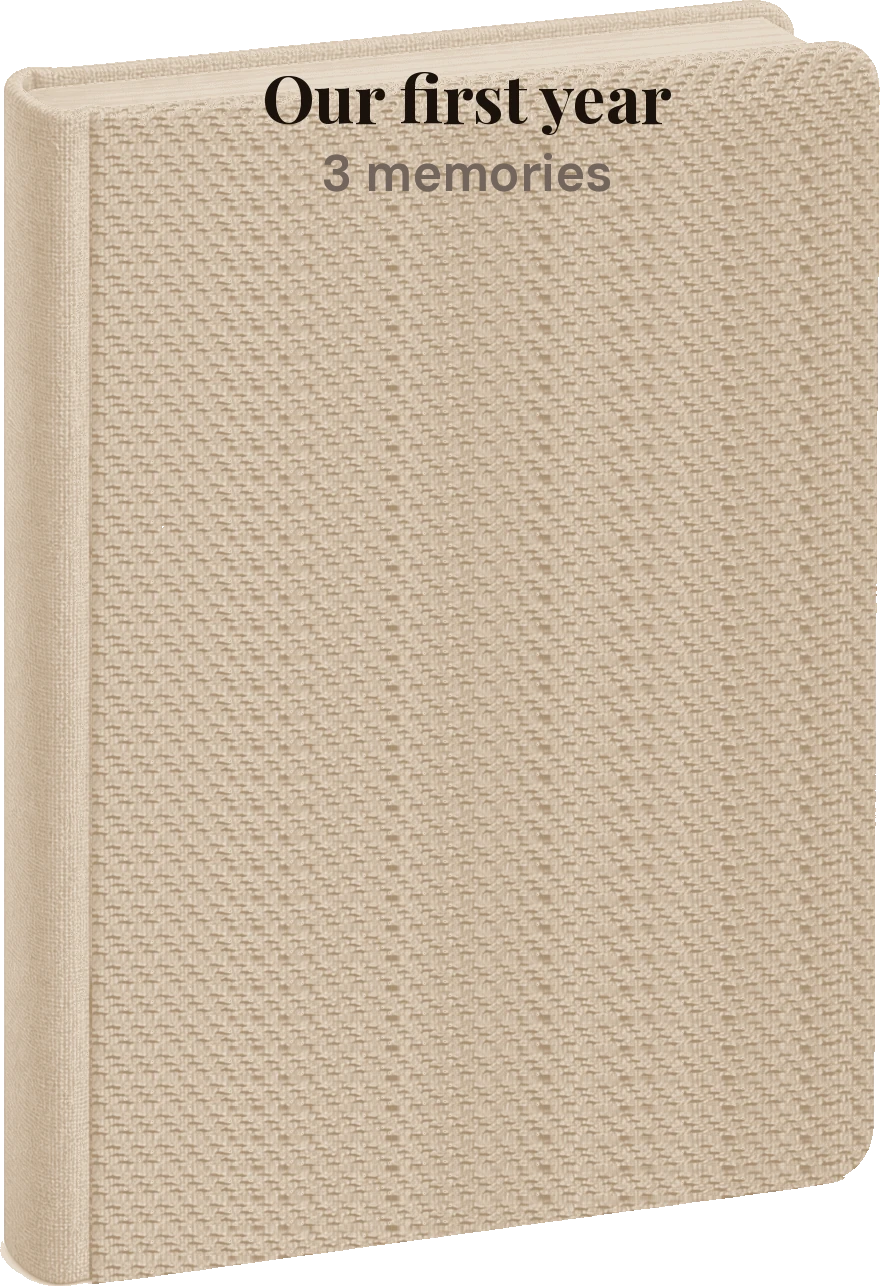
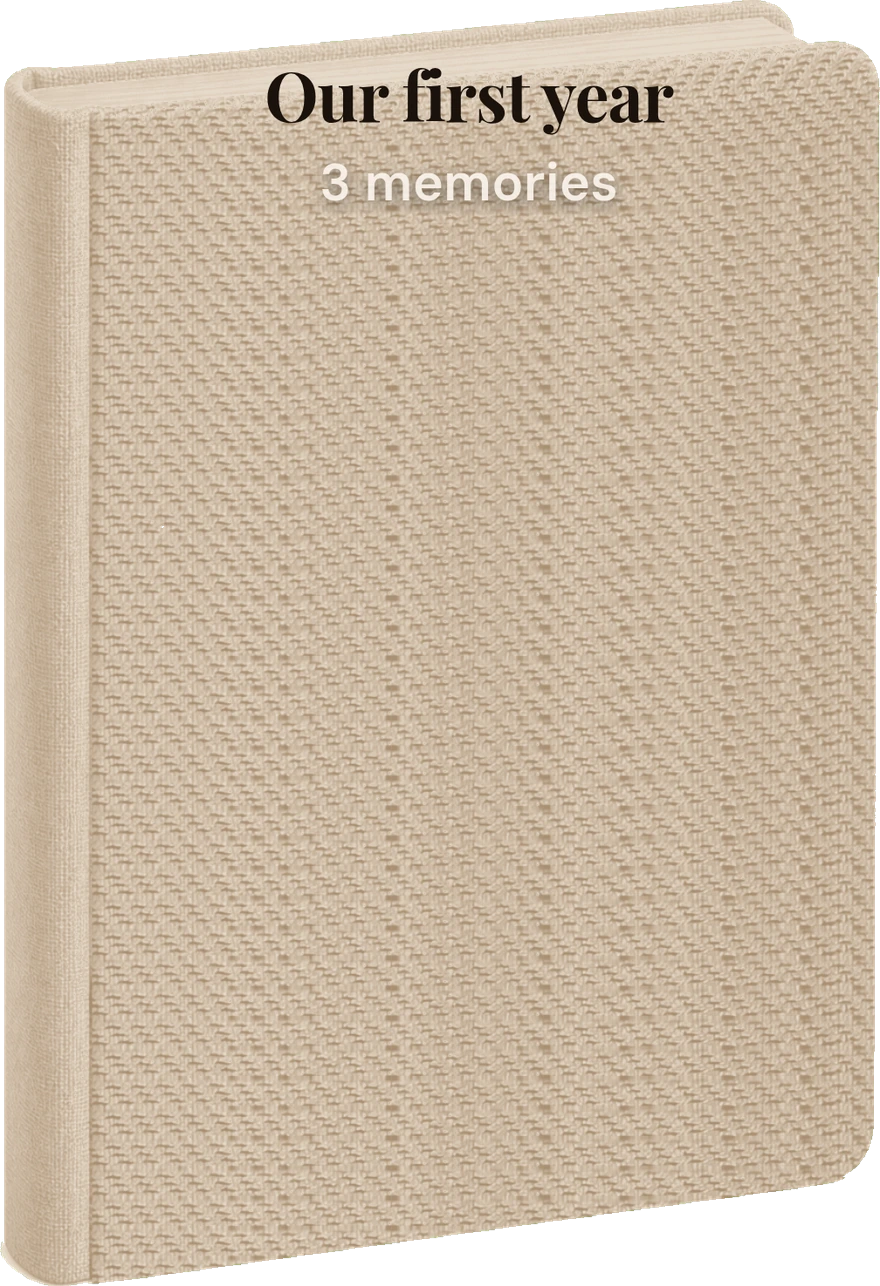
Match homepage Journal books to the app's photoreal hardcover covers (#9)
Replace the Journal phone book images with straight-on renders of
JournalCollectionBookCover from strongkin@eb2465f, and drop "linen"
from the Journal phone aria-label.

Changed region(s): [[0.3068, 0.0311, 0.767, 0.1866], [0.092, 0.9953, 0.1227, 1.0]]

diff --git a/index.html b/index.html
@@ -25,7 +25,7 @@
 <li><h3>Record your voice</h3><p>Leave a message, answer this week’s family moment, save an Open When message for later, or record a future message for a day still to come.</p></li>
 <li><h3>Listen and reply</h3><p>Your family hears your voice and can reply right back. Kids listen and reply in their own simple view.</p></li></ol></div></section>
 <section class="dark"><div class="wrap"><div class="center reveal"><p class="eyebrow">Inside the app</p><h2>Calm, warm, and simple</h2><p>A look at StrongKin, shown with sample data for a child named Maya.</p></div>
-<div class="phones reveal"><figure><div class="phone" role="img" aria-label="StrongKin Home screen: a full-screen photo of Maya, the headline “A message for Maya.” and a large gold mic button to leave a message"><div class="screen"><div class="app home"><img class="h-photo" src="assets/img/maya-home.webp" alt="" loading="lazy"><div class="h-scrim"></div><div class="sb light"><span>9:41</span><span class="isl"></span><span class="sbr"><i></i><i></i><i></i><i></i> <b class="batt"></b></span></div><div class="h-top"><div class="lock"><img src="assets/img/icon-180.png" alt=""><span><span class="strong">Strong</span><span class="kin">Kin</span></span></div><div class="h-right"><span class="bell"><svg class="ski" width="20" height="20" viewBox="0 0 24 24" fill="none" stroke="#FFF8F0" stroke-width="1.6" stroke-linecap="round" stroke-linejoin="round" aria-hidden="true"><path d="M6 16V11a6 6 0 0 1 12 0v5l1.5 2h-15L6 16Z"/><path d="M10 20a2 2 0 0 0 4 0"/></svg></span><span class="av"><img src="assets/img/avatar-parent.webp" alt="" loading="lazy"></span></div></div><div class="chip-wrap"><div class="chip"><span class="cav"><img src="assets/img/maya-home.webp" alt="" loading="lazy"></span>Maya • 9 <span class="caret">▼</span></div></div><div class="h-copy"><div class="greet">Good evening, Adrian</div><div class="hl">A message for Maya.</div><div class="hs">Your words today become her strength tomorrow.</div></div><div class="microw"><div class="ring"><div class="micb"><svg class="ski" width="32" height="32" viewBox="0 0 24 24" fill="none" stroke="#3D2B1F" stroke-width="1.8" stroke-linecap="round" stroke-linejoin="round" aria-hidden="true"><rect x="9" y="3" width="6" height="11" rx="3"/><path d="M6 11a6 6 0 0 0 12 0M12 17v4"/></svg></div></div></div><div class="leave">Leave a message</div><div class="choose">Choose people…</div><div class="cap"><div class="cap-in"><div class="ct on"><span class="cdot"><svg class="ski" width="25" height="25" viewBox="0 0 24 24" fill="none" stroke="currentColor" stroke-width="1.7" stroke-linecap="round" stroke-linejoin="round" aria-hidden="true"><path d="M4 10.5 12 4l8 6.5V20a1 1 0 0 1-1 1h-5v-6H10v6H5a1 1 0 0 1-1-1v-9.5Z"/></svg></span></div><div class="ct"><span class="cdot"><svg class="ski" width="25" height="25" viewBox="0 0 24 24" fill="none" stroke="currentColor" stroke-width="1.7" stroke-linecap="round" stroke-linejoin="round" aria-hidden="true"><rect x="9" y="3.5" width="6" height="11" rx="3"/><path d="M7 11a5 5 0 0 0 10 0M12 16v4"/></svg></span></div><div class="ct"><span class="cdot"><svg class="ski" width="25" height="25" viewBox="0 0 24 24" fill="none" stroke="currentColor" stroke-width="1.7" stroke-linecap="round" stroke-linejoin="round" aria-hidden="true"><circle cx="9" cy="8" r="2.5"/><circle cx="16" cy="9" r="2"/><path d="M4 19c0-2.8 2.2-4.5 5-4.5s5 1.7 5 4.5M14 19c0-2 1.5-3.5 3.5-3.5"/></svg></span></div><div class="ct"><span class="cdot"><svg class="ski" width="25" height="25" viewBox="0 0 24 24" fill="none" stroke="currentColor" stroke-width="1.7" stroke-linecap="round" stroke-linejoin="round" aria-hidden="true"><rect x="5" y="3" width="14" height="18" rx="2"/><path d="M9 3v18"/></svg></span></div></div></div></div></div></div><figcaption>Home</figcaption></figure><figure><div class="phone" role="img" aria-label="StrongKin Messages screen: Maya name chip, bell and profile photo scroll with the inbox, a small gold mic above the tab bar to record, All, Received and Sent filters, a full-row inbox, and Your collections for Family Stories, Open When, and Future"><div class="screen"><div class="app msg"><div class="sb"><span>9:41</span><span class="isl"></span><span class="sbr"><i></i><i></i><i></i><i></i> <b class="batt"></b></span></div><div class="pg-clip"><div class="pg msg-pg"><div class="msg-head"><div class="maya-chip"><span class="cav"><img src="assets/img/maya-home.webp" alt="" loading="lazy"></span>Maya <span class="caret">▼</span></div><div class="h-right"><span class="bell on-page"><svg class="ski" width="20" height="20" viewBox="0 0 24 24" fill="none" stroke="#FFF8F0" stroke-width="1.6" stroke-linecap="round" stroke-linejoin="round" aria-hidden="true"><path d="M6 16V11a6 6 0 0 1 12 0v5l1.5 2h-15L6 16Z"/><path d="M10 20a2 2 0 0 0 4 0"/></svg></span><span class="av"><img src="assets/img/avatar-parent.webp" alt="" loading="lazy"></span></div></div><div class="msg-title-row"><div class="pageTitle">Messages</div></div><div class="flt"><span class="on">All<i></i></span><span>Received<i></i></span><span>Sent<i></i></span></div><div class="inbox"><div class="irow"><span class="iface"><img src="assets/img/maya-home.webp" alt="" loading="lazy"></span><div class="icopy"><b class="iname">Maya</b><b class="ititle">Before the big game</b><span>To Maya · 0:42 · Ready</span></div><span class="pb"><svg class="ski" width="16" height="16" viewBox="0 0 24 24" fill="none" stroke="#3D2B1F" stroke-width="1.6" stroke-linecap="round" stroke-linejoin="round" aria-hidden="true"><path d="M8 5v14l11-7L8 5Z" fill="currentColor" stroke="none"/></svg></span><span class="kebab">⋯</span></div><div class="irow"><span class="iface"><img src="assets/img/maya-home.webp" alt="" loading="lazy"></span><div class="icopy"><b class="iname">Maya</b><b class="ititle">Happy birthday, Maya</b><span>Opens Mar 14 · Locked</span></div><span class="pb lock"><svg class="ski" width="18" height="18" viewBox="0 0 24 24" fill="none" stroke="#1A120C" stroke-width="1.8" stroke-linecap="round" aria-hidden="true"><rect x="5" y="11" width="14" height="10" rx="2"/><path d="M8 11V8a4 4 0 0 1 8 0v3"/></svg></span><span class="kebab">⋯</span></div><div class="irow"><span class="iface"><img src="assets/img/avatar-parent.webp" alt="" loading="lazy"></span><div class="icopy"><b class="iname">You</b><b class="ititle">Goodnight, I love you</b><span>To Maya · 0:42 · Heard</span></div><span class="pb"><svg class="ski" width="16" height="16" viewBox="0 0 24 24" fill="none" stroke="#3D2B1F" stroke-width="1.6" stroke-linecap="round" stroke-linejoin="round" aria-hidden="true"><path d="M8 5v14l11-7L8 5Z" fill="currentColor" stroke="none"/></svg></span><span class="kebab">⋯</span></div><div class="irow"><span class="iface"><img src="assets/img/wfm-laugh.webp" alt="" loading="lazy"></span><div class="icopy"><b class="iname">Grandma Rose</b><b class="ititle">How Grandpa met Grandma</b><span>To the family · 3:05 · Mon</span></div><span class="pb"><svg class="ski" width="16" height="16" viewBox="0 0 24 24" fill="none" stroke="#3D2B1F" stroke-width="1.6" stroke-linecap="round" stroke-linejoin="round" aria-hidden="true"><path d="M8 5v14l11-7L8 5Z" fill="currentColor" stroke="none"/></svg></span><span class="kebab">⋯</span></div><div class="irow"><span class="iface"><img src="assets/img/maya-home.webp" alt="" loading="lazy"></span><div class="icopy"><b class="iname">Maya</b><b class="ititle">First time on two wheels</b><span>To Maya · 1:50 · Oct 28</span></div><span class="pb"><svg class="ski" width="16" height="16" viewBox="0 0 24 24" fill="none" stroke="#3D2B1F" stroke-width="1.6" stroke-linecap="round" stroke-linejoin="round" aria-hidden="true"><path d="M8 5v14l11-7L8 5Z" fill="currentColor" stroke="none"/></svg></span><span class="kebab">⋯</span></div></div><div class="seeall">See all messages ›</div><div class="sh2"><span class="s2">Your collections</span><span class="lk2">See all ›</span></div><div class="cgrid"><div class="ctile"><img src="assets/img/entry-story.webp" alt="" loading="lazy"><div class="rt-g"></div><b>Family Stories</b></div><div class="ctile"><img src="assets/img/col-open-when.webp" alt="" loading="lazy"><div class="rt-g"></div><b>Open When</b></div><div class="ctile"><img src="assets/img/col-future.webp" alt="" loading="lazy"><div class="rt-g"></div><b>Future</b></div></div></div></div><div class="msg-fab" aria-hidden="true"><svg aria-hidden="true" class="ski" fill="none" height="20" stroke="#3D2B1F" stroke-linecap="round" stroke-linejoin="round" stroke-width="1.8" viewBox="0 0 24 24" width="20"><rect height="11" rx="3" width="6" x="9" y="3"></rect><path d="M6 11a6 6 0 0 0 12 0M12 17v4"></path></svg></div><div class="cap"><div class="cap-in"><div class="ct"><span class="cdot"><svg class="ski" width="25" height="25" viewBox="0 0 24 24" fill="none" stroke="currentColor" stroke-width="1.7" stroke-linecap="round" stroke-linejoin="round" aria-hidden="true"><path d="M4 10.5 12 4l8 6.5V20a1 1 0 0 1-1 1h-5v-6H10v6H5a1 1 0 0 1-1-1v-9.5Z"/></svg></span></div><div class="ct on"><span class="cdot"><svg class="ski" width="25" height="25" viewBox="0 0 24 24" fill="none" stroke="currentColor" stroke-width="1.7" stroke-linecap="round" stroke-linejoin="round" aria-hidden="true"><rect x="9" y="3.5" width="6" height="11" rx="3"/><path d="M7 11a5 5 0 0 0 10 0M12 16v4"/></svg></span></div><div class="ct"><span class="cdot"><svg class="ski" width="25" height="25" viewBox="0 0 24 24" fill="none" stroke="currentColor" stroke-width="1.7" stroke-linecap="round" stroke-linejoin="round" aria-hidden="true"><circle cx="9" cy="8" r="2.5"/><circle cx="16" cy="9" r="2"/><path d="M4 19c0-2.8 2.2-4.5 5-4.5s5 1.7 5 4.5M14 19c0-2 1.5-3.5 3.5-3.5"/></svg></span></div><div class="ct"><span class="cdot"><svg class="ski" width="25" height="25" viewBox="0 0 24 24" fill="none" stroke="currentColor" stroke-width="1.7" stroke-linecap="round" stroke-linejoin="round" aria-hidden="true"><rect x="5" y="3" width="14" height="18" rx="2"/><path d="M9 3v18"/></svg></span></div></div></div></div></div></div><figcaption>Messages</figcaption></figure><figure><div class="phone" role="img" aria-label="StrongKin Family screen: “Family — A little closer, every day.”, this week’s moment Dinner Thanks, Maya’s birthday coming up, the Stories and Albums collection, and the bell and profile photo in the header"><div class="screen"><div class="app fam"><div class="sb"><span>9:41</span><span class="isl"></span><span class="sbr"><i></i><i></i><i></i><i></i> <b class="batt"></b></span></div><div class="pg-clip"><div class="pg"><div class="fh"><div><div class="ft">Family</div><div class="fs">A little closer, every day.</div></div><div class="h-right"><span class="bell on-page"><svg class="ski" width="20" height="20" viewBox="0 0 24 24" fill="none" stroke="#FFF8F0" stroke-width="1.6" stroke-linecap="round" stroke-linejoin="round" aria-hidden="true"><path d="M6 16V11a6 6 0 0 1 12 0v5l1.5 2h-15L6 16Z"/><path d="M10 20a2 2 0 0 0 4 0"/></svg></span><span class="av"><img src="assets/img/avatar-parent.webp" alt="" loading="lazy"></span></div></div><div class="card mom"><div class="mh"><img src="assets/img/wfm-dinner2.webp" alt="" loading="lazy"></div><div class="mb"><div class="mchip-inline">THIS WEEK’S MOMENT</div><div class="mtt">Dinner Thanks</div><div class="mp">At dinner, each person says one specific thing they appreciate about someone else.</div><div class="cap-btn"><svg class="ski" width="18" height="18" viewBox="0 0 24 24" fill="none" stroke="currentColor" stroke-width="1.7" stroke-linecap="round" stroke-linejoin="round" aria-hidden="true"><rect x="9" y="3" width="6" height="11" rx="3"/><path d="M6 11a6 6 0 0 0 12 0M12 17v4"/></svg> Capture your moment</div></div></div><div class="sec"><div class="sh2"><span class="s2">Coming up</span><span class="lk2">All dates ›</span></div><div class="card ev"><span class="evf"><img src="assets/img/maya-home.webp" alt="" loading="lazy"></span><div class="evc"><b>Maya’s birthday</b><span>In 12 days</span></div><span class="lv"><svg class="ski" width="18" height="18" viewBox="0 0 24 24" fill="none" stroke="currentColor" stroke-width="1.7" stroke-linecap="round" stroke-linejoin="round" aria-hidden="true"><rect x="9" y="3" width="6" height="11" rx="3"/><path d="M6 11a6 6 0 0 0 12 0M12 17v4"/></svg> Record</span></div></div><div class="sec"><div class="s2">Your family collection</div><div class="tiles"><div class="tl"><div class="tp card"><img src="assets/img/fam-tile-stories.webp" alt="" loading="lazy"><div class="tf"></div><div class="tx"><b>Stories</b><span>Voices worth keeping</span></div></div><div class="tc"><span class="tc-lead">Latest</span><span class="tc-title">How they met</span></div></div><div class="tl"><div class="tp card"><img src="assets/img/fam-tile-albums.webp" alt="" loading="lazy"><div class="tf"></div><div class="tx"><b>Albums</b><span>Your family in pictures</span></div></div><div class="tc"><span class="tc-lead">Latest</span><span class="tc-title">Sunday dinners</span></div></div></div></div></div></div><div class="cap"><div class="cap-in"><div class="ct"><span class="cdot"><svg class="ski" width="25" height="25" viewBox="0 0 24 24" fill="none" stroke="currentColor" stroke-width="1.7" stroke-linecap="round" stroke-linejoin="round" aria-hidden="true"><path d="M4 10.5 12 4l8 6.5V20a1 1 0 0 1-1 1h-5v-6H10v6H5a1 1 0 0 1-1-1v-9.5Z"/></svg></span></div><div class="ct"><span class="cdot"><svg class="ski" width="25" height="25" viewBox="0 0 24 24" fill="none" stroke="currentColor" stroke-width="1.7" stroke-linecap="round" stroke-linejoin="round" aria-hidden="true"><rect x="9" y="3.5" width="6" height="11" rx="3"/><path d="M7 11a5 5 0 0 0 10 0M12 16v4"/></svg></span></div><div class="ct on"><span class="cdot"><svg class="ski" width="25" height="25" viewBox="0 0 24 24" fill="none" stroke="currentColor" stroke-width="1.7" stroke-linecap="round" stroke-linejoin="round" aria-hidden="true"><circle cx="9" cy="8" r="2.5"/><circle cx="16" cy="9" r="2"/><path d="M4 19c0-2.8 2.2-4.5 5-4.5s5 1.7 5 4.5M14 19c0-2 1.5-3.5 3.5-3.5"/></svg></span></div><div class="ct"><span class="cdot"><svg class="ski" width="25" height="25" viewBox="0 0 24 24" fill="none" stroke="currentColor" stroke-width="1.7" stroke-linecap="round" stroke-linejoin="round" aria-hidden="true"><rect x="5" y="3" width="14" height="18" rx="2"/><path d="M9 3v18"/></svg></span></div></div></div></div></div></div><figcaption>Family</figcaption></figure><figure><div class="phone" role="img" aria-label="StrongKin Journal screen: “Keep a little of today.” with Speak a memory, Write and Add photo, a recent memory, linen hardcover memory books for Maya and Our first year, Letters with one from Grandma Rose, and the bell and profile photo in the header"><div class="screen"><div class="app jrn"><div class="sb"><span>9:41</span><span class="isl"></span><span class="sbr"><i></i><i></i><i></i><i></i> <b class="batt"></b></span></div><div class="pg-clip"><div class="pg j"><div class="fh"><div class="ft">Journal</div><div class="h-right"><span class="bell on-page"><svg class="ski" width="20" height="20" viewBox="0 0 24 24" fill="none" stroke="#FFF8F0" stroke-width="1.6" stroke-linecap="round" stroke-linejoin="round" aria-hidden="true"><path d="M6 16V11a6 6 0 0 1 12 0v5l1.5 2h-15L6 16Z"/><path d="M10 20a2 2 0 0 0 4 0"/></svg></span><span class="av"><img src="assets/img/avatar-parent.webp" alt="" loading="lazy"></span></div></div><div class="capture-block"><div class="dateLine">Tuesday, November 10</div><div class="ctt">Keep a little of today.</div><div class="spk"><svg class="ski" width="18" height="18" viewBox="0 0 24 24" fill="none" stroke="currentColor" stroke-width="1.7" stroke-linecap="round" stroke-linejoin="round" aria-hidden="true"><rect x="9" y="3" width="6" height="11" rx="3"/><path d="M6 11a6 6 0 0 0 12 0M12 17v4"/></svg> Speak a memory</div><div class="sec2"><span><svg class="ski" width="16" height="16" viewBox="0 0 24 24" fill="none" stroke="#1A120C" stroke-width="1.7" stroke-linecap="round" stroke-linejoin="round" aria-hidden="true"><path d="M4 20h4L19 9l-4-4L4 16v4Z"/></svg> Write</span><span><svg class="ski" width="16" height="16" viewBox="0 0 24 24" fill="none" stroke="#1A120C" stroke-width="1.7" stroke-linecap="round" stroke-linejoin="round" aria-hidden="true"><path d="M4 8h3l2-3h6l2 3h3v11H4V8Z"/><circle cx="12" cy="13" r="3.5"/></svg> Add photo</span></div></div><div class="sec"><div class="sh2"><span class="s3">Recent memories</span><span class="lk2 see">See all<svg aria-hidden="true" class="ski chev" fill="none" height="14" stroke="currentColor" stroke-linecap="round" stroke-width="1.8" viewBox="0 0 24 24" width="14"><path d="m9 6 6 6-6 6"></path></svg></span></div><div class="card mrow"><img class="th" src="assets/img/entry-moment.webp" alt="" loading="lazy"><div class="evc"><b>Her first bike ride without me</b><span>Maya · Today · Voice · 0:38</span></div><span class="pb"><svg class="ski" width="16" height="16" viewBox="0 0 24 24" fill="none" stroke="#3D2B1F" stroke-width="1.6" stroke-linecap="round" stroke-linejoin="round" aria-hidden="true"><path d="M8 5v14l11-7L8 5Z" fill="currentColor" stroke="none"/></svg></span></div><div class="ideas">More ideas ›</div></div><div class="sec"><div class="sh2"><span class="s3">Your memory books</span><span class="lk2 see">See all<svg aria-hidden="true" class="ski chev" fill="none" height="14" stroke="currentColor" stroke-linecap="round" stroke-width="1.8" viewBox="0 0 24 24" width="14"><path d="m9 6 6 6-6 6"></path></svg></span></div><div class="book-shelf"><img class="book-cover" src="assets/img/journal-book-maya.webp" alt="" loading="lazy"><img class="book-cover" src="assets/img/journal-book-first-year.webp" alt="" loading="lazy"></div><div class="create-book">+ Create a book</div></div><div class="sec"><div class="sh2"><span class="s3">Letters</span><span class="lk2 see">See all<svg aria-hidden="true" class="ski chev" fill="none" height="14" stroke="currentColor" stroke-linecap="round" stroke-width="1.8" viewBox="0 0 24 24" width="14"><path d="m9 6 6 6-6 6"></path></svg></span></div><div class="letter-row"><img class="envelope" src="assets/img/journal-letter-envelope.webp" alt="" loading="lazy"><div class="evc"><b>From Grandma Rose</b><span>A letter for your birthday · Yesterday</span></div><svg class="ski" width="16" height="16" viewBox="0 0 24 24" fill="none" stroke="#6B4E32" stroke-width="1.8" stroke-linecap="round" aria-hidden="true"><path d="m9 6 6 6-6 6"/></svg></div><div class="create-book">+ Write a letter</div></div></div></div><div class="cap"><div class="cap-in"><div class="ct"><span class="cdot"><svg class="ski" width="25" height="25" viewBox="0 0 24 24" fill="none" stroke="currentColor" stroke-width="1.7" stroke-linecap="round" stroke-linejoin="round" aria-hidden="true"><path d="M4 10.5 12 4l8 6.5V20a1 1 0 0 1-1 1h-5v-6H10v6H5a1 1 0 0 1-1-1v-9.5Z"/></svg></span></div><div class="ct"><span class="cdot"><svg class="ski" width="25" height="25" viewBox="0 0 24 24" fill="none" stroke="currentColor" stroke-width="1.7" stroke-linecap="round" stroke-linejoin="round" aria-hidden="true"><rect x="9" y="3.5" width="6" height="11" rx="3"/><path d="M7 11a5 5 0 0 0 10 0M12 16v4"/></svg></span></div><div class="ct"><span class="cdot"><svg class="ski" width="25" height="25" viewBox="0 0 24 24" fill="none" stroke="currentColor" stroke-width="1.7" stroke-linecap="round" stroke-linejoin="round" aria-hidden="true"><circle cx="9" cy="8" r="2.5"/><circle cx="16" cy="9" r="2"/><path d="M4 19c0-2.8 2.2-4.5 5-4.5s5 1.7 5 4.5M14 19c0-2 1.5-3.5 3.5-3.5"/></svg></span></div><div class="ct on"><span class="cdot"><svg class="ski" width="25" height="25" viewBox="0 0 24 24" fill="none" stroke="currentColor" stroke-width="1.7" stroke-linecap="round" stroke-linejoin="round" aria-hidden="true"><rect x="5" y="3" width="14" height="18" rx="2"/><path d="M9 3v18"/></svg></span></div></div></div></div></div></div><figcaption>Journal</figcaption></figure></div></div></section>
+<div class="phones reveal"><figure><div class="phone" role="img" aria-label="StrongKin Home screen: a full-screen photo of Maya, the headline “A message for Maya.” and a large gold mic button to leave a message"><div class="screen"><div class="app home"><img class="h-photo" src="assets/img/maya-home.webp" alt="" loading="lazy"><div class="h-scrim"></div><div class="sb light"><span>9:41</span><span class="isl"></span><span class="sbr"><i></i><i></i><i></i><i></i> <b class="batt"></b></span></div><div class="h-top"><div class="lock"><img src="assets/img/icon-180.png" alt=""><span><span class="strong">Strong</span><span class="kin">Kin</span></span></div><div class="h-right"><span class="bell"><svg class="ski" width="20" height="20" viewBox="0 0 24 24" fill="none" stroke="#FFF8F0" stroke-width="1.6" stroke-linecap="round" stroke-linejoin="round" aria-hidden="true"><path d="M6 16V11a6 6 0 0 1 12 0v5l1.5 2h-15L6 16Z"/><path d="M10 20a2 2 0 0 0 4 0"/></svg></span><span class="av"><img src="assets/img/avatar-parent.webp" alt="" loading="lazy"></span></div></div><div class="chip-wrap"><div class="chip"><span class="cav"><img src="assets/img/maya-home.webp" alt="" loading="lazy"></span>Maya • 9 <span class="caret">▼</span></div></div><div class="h-copy"><div class="greet">Good evening, Adrian</div><div class="hl">A message for Maya.</div><div class="hs">Your words today become her strength tomorrow.</div></div><div class="microw"><div class="ring"><div class="micb"><svg class="ski" width="32" height="32" viewBox="0 0 24 24" fill="none" stroke="#3D2B1F" stroke-width="1.8" stroke-linecap="round" stroke-linejoin="round" aria-hidden="true"><rect x="9" y="3" width="6" height="11" rx="3"/><path d="M6 11a6 6 0 0 0 12 0M12 17v4"/></svg></div></div></div><div class="leave">Leave a message</div><div class="choose">Choose people…</div><div class="cap"><div class="cap-in"><div class="ct on"><span class="cdot"><svg class="ski" width="25" height="25" viewBox="0 0 24 24" fill="none" stroke="currentColor" stroke-width="1.7" stroke-linecap="round" stroke-linejoin="round" aria-hidden="true"><path d="M4 10.5 12 4l8 6.5V20a1 1 0 0 1-1 1h-5v-6H10v6H5a1 1 0 0 1-1-1v-9.5Z"/></svg></span></div><div class="ct"><span class="cdot"><svg class="ski" width="25" height="25" viewBox="0 0 24 24" fill="none" stroke="currentColor" stroke-width="1.7" stroke-linecap="round" stroke-linejoin="round" aria-hidden="true"><rect x="9" y="3.5" width="6" height="11" rx="3"/><path d="M7 11a5 5 0 0 0 10 0M12 16v4"/></svg></span></div><div class="ct"><span class="cdot"><svg class="ski" width="25" height="25" viewBox="0 0 24 24" fill="none" stroke="currentColor" stroke-width="1.7" stroke-linecap="round" stroke-linejoin="round" aria-hidden="true"><circle cx="9" cy="8" r="2.5"/><circle cx="16" cy="9" r="2"/><path d="M4 19c0-2.8 2.2-4.5 5-4.5s5 1.7 5 4.5M14 19c0-2 1.5-3.5 3.5-3.5"/></svg></span></div><div class="ct"><span class="cdot"><svg class="ski" width="25" height="25" viewBox="0 0 24 24" fill="none" stroke="currentColor" stroke-width="1.7" stroke-linecap="round" stroke-linejoin="round" aria-hidden="true"><rect x="5" y="3" width="14" height="18" rx="2"/><path d="M9 3v18"/></svg></span></div></div></div></div></div></div><figcaption>Home</figcaption></figure><figure><div class="phone" role="img" aria-label="StrongKin Messages screen: Maya name chip, bell and profile photo scroll with the inbox, a small gold mic above the tab bar to record, All, Received and Sent filters, a full-row inbox, and Your collections for Family Stories, Open When, and Future"><div class="screen"><div class="app msg"><div class="sb"><span>9:41</span><span class="isl"></span><span class="sbr"><i></i><i></i><i></i><i></i> <b class="batt"></b></span></div><div class="pg-clip"><div class="pg msg-pg"><div class="msg-head"><div class="maya-chip"><span class="cav"><img src="assets/img/maya-home.webp" alt="" loading="lazy"></span>Maya <span class="caret">▼</span></div><div class="h-right"><span class="bell on-page"><svg class="ski" width="20" height="20" viewBox="0 0 24 24" fill="none" stroke="#FFF8F0" stroke-width="1.6" stroke-linecap="round" stroke-linejoin="round" aria-hidden="true"><path d="M6 16V11a6 6 0 0 1 12 0v5l1.5 2h-15L6 16Z"/><path d="M10 20a2 2 0 0 0 4 0"/></svg></span><span class="av"><img src="assets/img/avatar-parent.webp" alt="" loading="lazy"></span></div></div><div class="msg-title-row"><div class="pageTitle">Messages</div></div><div class="flt"><span class="on">All<i></i></span><span>Received<i></i></span><span>Sent<i></i></span></div><div class="inbox"><div class="irow"><span class="iface"><img src="assets/img/maya-home.webp" alt="" loading="lazy"></span><div class="icopy"><b class="iname">Maya</b><b class="ititle">Before the big game</b><span>To Maya · 0:42 · Ready</span></div><span class="pb"><svg class="ski" width="16" height="16" viewBox="0 0 24 24" fill="none" stroke="#3D2B1F" stroke-width="1.6" stroke-linecap="round" stroke-linejoin="round" aria-hidden="true"><path d="M8 5v14l11-7L8 5Z" fill="currentColor" stroke="none"/></svg></span><span class="kebab">⋯</span></div><div class="irow"><span class="iface"><img src="assets/img/maya-home.webp" alt="" loading="lazy"></span><div class="icopy"><b class="iname">Maya</b><b class="ititle">Happy birthday, Maya</b><span>Opens Mar 14 · Locked</span></div><span class="pb lock"><svg class="ski" width="18" height="18" viewBox="0 0 24 24" fill="none" stroke="#1A120C" stroke-width="1.8" stroke-linecap="round" aria-hidden="true"><rect x="5" y="11" width="14" height="10" rx="2"/><path d="M8 11V8a4 4 0 0 1 8 0v3"/></svg></span><span class="kebab">⋯</span></div><div class="irow"><span class="iface"><img src="assets/img/avatar-parent.webp" alt="" loading="lazy"></span><div class="icopy"><b class="iname">You</b><b class="ititle">Goodnight, I love you</b><span>To Maya · 0:42 · Heard</span></div><span class="pb"><svg class="ski" width="16" height="16" viewBox="0 0 24 24" fill="none" stroke="#3D2B1F" stroke-width="1.6" stroke-linecap="round" stroke-linejoin="round" aria-hidden="true"><path d="M8 5v14l11-7L8 5Z" fill="currentColor" stroke="none"/></svg></span><span class="kebab">⋯</span></div><div class="irow"><span class="iface"><img src="assets/img/wfm-laugh.webp" alt="" loading="lazy"></span><div class="icopy"><b class="iname">Grandma Rose</b><b class="ititle">How Grandpa met Grandma</b><span>To the family · 3:05 · Mon</span></div><span class="pb"><svg class="ski" width="16" height="16" viewBox="0 0 24 24" fill="none" stroke="#3D2B1F" stroke-width="1.6" stroke-linecap="round" stroke-linejoin="round" aria-hidden="true"><path d="M8 5v14l11-7L8 5Z" fill="currentColor" stroke="none"/></svg></span><span class="kebab">⋯</span></div><div class="irow"><span class="iface"><img src="assets/img/maya-home.webp" alt="" loading="lazy"></span><div class="icopy"><b class="iname">Maya</b><b class="ititle">First time on two wheels</b><span>To Maya · 1:50 · Oct 28</span></div><span class="pb"><svg class="ski" width="16" height="16" viewBox="0 0 24 24" fill="none" stroke="#3D2B1F" stroke-width="1.6" stroke-linecap="round" stroke-linejoin="round" aria-hidden="true"><path d="M8 5v14l11-7L8 5Z" fill="currentColor" stroke="none"/></svg></span><span class="kebab">⋯</span></div></div><div class="seeall">See all messages ›</div><div class="sh2"><span class="s2">Your collections</span><span class="lk2">See all ›</span></div><div class="cgrid"><div class="ctile"><img src="assets/img/entry-story.webp" alt="" loading="lazy"><div class="rt-g"></div><b>Family Stories</b></div><div class="ctile"><img src="assets/img/col-open-when.webp" alt="" loading="lazy"><div class="rt-g"></div><b>Open When</b></div><div class="ctile"><img src="assets/img/col-future.webp" alt="" loading="lazy"><div class="rt-g"></div><b>Future</b></div></div></div></div><div class="msg-fab" aria-hidden="true"><svg aria-hidden="true" class="ski" fill="none" height="20" stroke="#3D2B1F" stroke-linecap="round" stroke-linejoin="round" stroke-width="1.8" viewBox="0 0 24 24" width="20"><rect height="11" rx="3" width="6" x="9" y="3"></rect><path d="M6 11a6 6 0 0 0 12 0M12 17v4"></path></svg></div><div class="cap"><div class="cap-in"><div class="ct"><span class="cdot"><svg class="ski" width="25" height="25" viewBox="0 0 24 24" fill="none" stroke="currentColor" stroke-width="1.7" stroke-linecap="round" stroke-linejoin="round" aria-hidden="true"><path d="M4 10.5 12 4l8 6.5V20a1 1 0 0 1-1 1h-5v-6H10v6H5a1 1 0 0 1-1-1v-9.5Z"/></svg></span></div><div class="ct on"><span class="cdot"><svg class="ski" width="25" height="25" viewBox="0 0 24 24" fill="none" stroke="currentColor" stroke-width="1.7" stroke-linecap="round" stroke-linejoin="round" aria-hidden="true"><rect x="9" y="3.5" width="6" height="11" rx="3"/><path d="M7 11a5 5 0 0 0 10 0M12 16v4"/></svg></span></div><div class="ct"><span class="cdot"><svg class="ski" width="25" height="25" viewBox="0 0 24 24" fill="none" stroke="currentColor" stroke-width="1.7" stroke-linecap="round" stroke-linejoin="round" aria-hidden="true"><circle cx="9" cy="8" r="2.5"/><circle cx="16" cy="9" r="2"/><path d="M4 19c0-2.8 2.2-4.5 5-4.5s5 1.7 5 4.5M14 19c0-2 1.5-3.5 3.5-3.5"/></svg></span></div><div class="ct"><span class="cdot"><svg class="ski" width="25" height="25" viewBox="0 0 24 24" fill="none" stroke="currentColor" stroke-width="1.7" stroke-linecap="round" stroke-linejoin="round" aria-hidden="true"><rect x="5" y="3" width="14" height="18" rx="2"/><path d="M9 3v18"/></svg></span></div></div></div></div></div></div><figcaption>Messages</figcaption></figure><figure><div class="phone" role="img" aria-label="StrongKin Family screen: “Family — A little closer, every day.”, this week’s moment Dinner Thanks, Maya’s birthday coming up, the Stories and Albums collection, and the bell and profile photo in the header"><div class="screen"><div class="app fam"><div class="sb"><span>9:41</span><span class="isl"></span><span class="sbr"><i></i><i></i><i></i><i></i> <b class="batt"></b></span></div><div class="pg-clip"><div class="pg"><div class="fh"><div><div class="ft">Family</div><div class="fs">A little closer, every day.</div></div><div class="h-right"><span class="bell on-page"><svg class="ski" width="20" height="20" viewBox="0 0 24 24" fill="none" stroke="#FFF8F0" stroke-width="1.6" stroke-linecap="round" stroke-linejoin="round" aria-hidden="true"><path d="M6 16V11a6 6 0 0 1 12 0v5l1.5 2h-15L6 16Z"/><path d="M10 20a2 2 0 0 0 4 0"/></svg></span><span class="av"><img src="assets/img/avatar-parent.webp" alt="" loading="lazy"></span></div></div><div class="card mom"><div class="mh"><img src="assets/img/wfm-dinner2.webp" alt="" loading="lazy"></div><div class="mb"><div class="mchip-inline">THIS WEEK’S MOMENT</div><div class="mtt">Dinner Thanks</div><div class="mp">At dinner, each person says one specific thing they appreciate about someone else.</div><div class="cap-btn"><svg class="ski" width="18" height="18" viewBox="0 0 24 24" fill="none" stroke="currentColor" stroke-width="1.7" stroke-linecap="round" stroke-linejoin="round" aria-hidden="true"><rect x="9" y="3" width="6" height="11" rx="3"/><path d="M6 11a6 6 0 0 0 12 0M12 17v4"/></svg> Capture your moment</div></div></div><div class="sec"><div class="sh2"><span class="s2">Coming up</span><span class="lk2">All dates ›</span></div><div class="card ev"><span class="evf"><img src="assets/img/maya-home.webp" alt="" loading="lazy"></span><div class="evc"><b>Maya’s birthday</b><span>In 12 days</span></div><span class="lv"><svg class="ski" width="18" height="18" viewBox="0 0 24 24" fill="none" stroke="currentColor" stroke-width="1.7" stroke-linecap="round" stroke-linejoin="round" aria-hidden="true"><rect x="9" y="3" width="6" height="11" rx="3"/><path d="M6 11a6 6 0 0 0 12 0M12 17v4"/></svg> Record</span></div></div><div class="sec"><div class="s2">Your family collection</div><div class="tiles"><div class="tl"><div class="tp card"><img src="assets/img/fam-tile-stories.webp" alt="" loading="lazy"><div class="tf"></div><div class="tx"><b>Stories</b><span>Voices worth keeping</span></div></div><div class="tc"><span class="tc-lead">Latest</span><span class="tc-title">How they met</span></div></div><div class="tl"><div class="tp card"><img src="assets/img/fam-tile-albums.webp" alt="" loading="lazy"><div class="tf"></div><div class="tx"><b>Albums</b><span>Your family in pictures</span></div></div><div class="tc"><span class="tc-lead">Latest</span><span class="tc-title">Sunday dinners</span></div></div></div></div></div></div><div class="cap"><div class="cap-in"><div class="ct"><span class="cdot"><svg class="ski" width="25" height="25" viewBox="0 0 24 24" fill="none" stroke="currentColor" stroke-width="1.7" stroke-linecap="round" stroke-linejoin="round" aria-hidden="true"><path d="M4 10.5 12 4l8 6.5V20a1 1 0 0 1-1 1h-5v-6H10v6H5a1 1 0 0 1-1-1v-9.5Z"/></svg></span></div><div class="ct"><span class="cdot"><svg class="ski" width="25" height="25" viewBox="0 0 24 24" fill="none" stroke="currentColor" stroke-width="1.7" stroke-linecap="round" stroke-linejoin="round" aria-hidden="true"><rect x="9" y="3.5" width="6" height="11" rx="3"/><path d="M7 11a5 5 0 0 0 10 0M12 16v4"/></svg></span></div><div class="ct on"><span class="cdot"><svg class="ski" width="25" height="25" viewBox="0 0 24 24" fill="none" stroke="currentColor" stroke-width="1.7" stroke-linecap="round" stroke-linejoin="round" aria-hidden="true"><circle cx="9" cy="8" r="2.5"/><circle cx="16" cy="9" r="2"/><path d="M4 19c0-2.8 2.2-4.5 5-4.5s5 1.7 5 4.5M14 19c0-2 1.5-3.5 3.5-3.5"/></svg></span></div><div class="ct"><span class="cdot"><svg class="ski" width="25" height="25" viewBox="0 0 24 24" fill="none" stroke="currentColor" stroke-width="1.7" stroke-linecap="round" stroke-linejoin="round" aria-hidden="true"><rect x="5" y="3" width="14" height="18" rx="2"/><path d="M9 3v18"/></svg></span></div></div></div></div></div></div><figcaption>Family</figcaption></figure><figure><div class="phone" role="img" aria-label="StrongKin Journal screen: “Keep a little of today.” with Speak a memory, Write and Add photo, a recent memory, hardcover memory books for Maya and Our first year, Letters with one from Grandma Rose, and the bell and profile photo in the header"><div class="screen"><div class="app jrn"><div class="sb"><span>9:41</span><span class="isl"></span><span class="sbr"><i></i><i></i><i></i><i></i> <b class="batt"></b></span></div><div class="pg-clip"><div class="pg j"><div class="fh"><div class="ft">Journal</div><div class="h-right"><span class="bell on-page"><svg class="ski" width="20" height="20" viewBox="0 0 24 24" fill="none" stroke="#FFF8F0" stroke-width="1.6" stroke-linecap="round" stroke-linejoin="round" aria-hidden="true"><path d="M6 16V11a6 6 0 0 1 12 0v5l1.5 2h-15L6 16Z"/><path d="M10 20a2 2 0 0 0 4 0"/></svg></span><span class="av"><img src="assets/img/avatar-parent.webp" alt="" loading="lazy"></span></div></div><div class="capture-block"><div class="dateLine">Tuesday, November 10</div><div class="ctt">Keep a little of today.</div><div class="spk"><svg class="ski" width="18" height="18" viewBox="0 0 24 24" fill="none" stroke="currentColor" stroke-width="1.7" stroke-linecap="round" stroke-linejoin="round" aria-hidden="true"><rect x="9" y="3" width="6" height="11" rx="3"/><path d="M6 11a6 6 0 0 0 12 0M12 17v4"/></svg> Speak a memory</div><div class="sec2"><span><svg class="ski" width="16" height="16" viewBox="0 0 24 24" fill="none" stroke="#1A120C" stroke-width="1.7" stroke-linecap="round" stroke-linejoin="round" aria-hidden="true"><path d="M4 20h4L19 9l-4-4L4 16v4Z"/></svg> Write</span><span><svg class="ski" width="16" height="16" viewBox="0 0 24 24" fill="none" stroke="#1A120C" stroke-width="1.7" stroke-linecap="round" stroke-linejoin="round" aria-hidden="true"><path d="M4 8h3l2-3h6l2 3h3v11H4V8Z"/><circle cx="12" cy="13" r="3.5"/></svg> Add photo</span></div></div><div class="sec"><div class="sh2"><span class="s3">Recent memories</span><span class="lk2 see">See all<svg aria-hidden="true" class="ski chev" fill="none" height="14" stroke="currentColor" stroke-linecap="round" stroke-width="1.8" viewBox="0 0 24 24" width="14"><path d="m9 6 6 6-6 6"></path></svg></span></div><div class="card mrow"><img class="th" src="assets/img/entry-moment.webp" alt="" loading="lazy"><div class="evc"><b>Her first bike ride without me</b><span>Maya · Today · Voice · 0:38</span></div><span class="pb"><svg class="ski" width="16" height="16" viewBox="0 0 24 24" fill="none" stroke="#3D2B1F" stroke-width="1.6" stroke-linecap="round" stroke-linejoin="round" aria-hidden="true"><path d="M8 5v14l11-7L8 5Z" fill="currentColor" stroke="none"/></svg></span></div><div class="ideas">More ideas ›</div></div><div class="sec"><div class="sh2"><span class="s3">Your memory books</span><span class="lk2 see">See all<svg aria-hidden="true" class="ski chev" fill="none" height="14" stroke="currentColor" stroke-linecap="round" stroke-width="1.8" viewBox="0 0 24 24" width="14"><path d="m9 6 6 6-6 6"></path></svg></span></div><div class="book-shelf"><img class="book-cover" src="assets/img/journal-book-maya.webp" alt="" loading="lazy"><img class="book-cover" src="assets/img/journal-book-first-year.webp" alt="" loading="lazy"></div><div class="create-book">+ Create a book</div></div><div class="sec"><div class="sh2"><span class="s3">Letters</span><span class="lk2 see">See all<svg aria-hidden="true" class="ski chev" fill="none" height="14" stroke="currentColor" stroke-linecap="round" stroke-width="1.8" viewBox="0 0 24 24" width="14"><path d="m9 6 6 6-6 6"></path></svg></span></div><div class="letter-row"><img class="envelope" src="assets/img/journal-letter-envelope.webp" alt="" loading="lazy"><div class="evc"><b>From Grandma Rose</b><span>A letter for your birthday · Yesterday</span></div><svg class="ski" width="16" height="16" viewBox="0 0 24 24" fill="none" stroke="#6B4E32" stroke-width="1.8" stroke-linecap="round" aria-hidden="true"><path d="m9 6 6 6-6 6"/></svg></div><div class="create-book">+ Write a letter</div></div></div></div><div class="cap"><div class="cap-in"><div class="ct"><span class="cdot"><svg class="ski" width="25" height="25" viewBox="0 0 24 24" fill="none" stroke="currentColor" stroke-width="1.7" stroke-linecap="round" stroke-linejoin="round" aria-hidden="true"><path d="M4 10.5 12 4l8 6.5V20a1 1 0 0 1-1 1h-5v-6H10v6H5a1 1 0 0 1-1-1v-9.5Z"/></svg></span></div><div class="ct"><span class="cdot"><svg class="ski" width="25" height="25" viewBox="0 0 24 24" fill="none" stroke="currentColor" stroke-width="1.7" stroke-linecap="round" stroke-linejoin="round" aria-hidden="true"><rect x="9" y="3.5" width="6" height="11" rx="3"/><path d="M7 11a5 5 0 0 0 10 0M12 16v4"/></svg></span></div><div class="ct"><span class="cdot"><svg class="ski" width="25" height="25" viewBox="0 0 24 24" fill="none" stroke="currentColor" stroke-width="1.7" stroke-linecap="round" stroke-linejoin="round" aria-hidden="true"><circle cx="9" cy="8" r="2.5"/><circle cx="16" cy="9" r="2"/><path d="M4 19c0-2.8 2.2-4.5 5-4.5s5 1.7 5 4.5M14 19c0-2 1.5-3.5 3.5-3.5"/></svg></span></div><div class="ct on"><span class="cdot"><svg class="ski" width="25" height="25" viewBox="0 0 24 24" fill="none" stroke="currentColor" stroke-width="1.7" stroke-linecap="round" stroke-linejoin="round" aria-hidden="true"><rect x="5" y="3" width="14" height="18" rx="2"/><path d="M9 3v18"/></svg></span></div></div></div></div></div></div><figcaption>Journal</figcaption></figure></div></div></section>
 <section id="faq"><div class="wrap"><div class="center"><p class="eyebrow">Questions</p><h2>Frequently asked</h2></div><div class="faq"><details><summary>Who is StrongKin for?</summary><p>Anyone who’s family. Parents and kids, grandparents, aunts and uncles, cousins, nieces and nephews — StrongKin is one place for all of you to send voice messages, share stories and stay close to each other, whoever’s talking and whoever’s listening.</p></details><details><summary>Is my family’s information private?</summary><p>Your messages, photos and letters are stored in your StrongKin account and shared only with the family members you connect. We don’t sell your data and we don’t show ads. Read the <a href="privacy.html">privacy policy</a> for the details.</p></details><details><summary>Is it safe for kids?</summary><p>Children use a separate, simplified view. A child’s device is paired to the family only with a parent’s approval, and there are no public profiles, feeds, or messages from strangers.</p></details><details><summary>Does it work on Android?</summary><p>Yes. StrongKin is coming soon to both iPhone (App Store) and Android (Google Play).</p></details><details><summary>Can grandparents, aunts and uncles use it?</summary><p>Yes. StrongKin is for the whole family, not just parents. Grandparents, aunts, uncles and cousins can be part of your family in the app to send messages, letters and stories, and hear the kids’ replies.</p></details><details><summary>What if we don’t have internet?</summary><p>Replies recorded offline are saved on the device and sent automatically once you’re connected again.</p></details></div></div></section>
 <section class="cta"><div class="wrap"><img src="assets/img/icon-180.png" alt="StrongKin app icon" width="84" height="84" loading="lazy"><h2>A little closer, every day.</h2><p style="color:var(--muted);margin-bottom:24px">Start with one message. They’ll keep it for years.</p><form class="waitlist" data-source="homepage-cta" action="#" method="post"><p class="waitlist-lead">StrongKin is almost ready. Leave your email, and we’ll tell you when your family can join.</p><div class="waitlist-row"><label class="sr-only" for="waitlist-email-cta">Email address</label><input id="waitlist-email-cta" type="email" name="email" autocomplete="email" inputmode="email" required placeholder="Email address"><div class="hp" aria-hidden="true"><label for="waitlist-company-cta">Company</label><input id="waitlist-company-cta" type="text" name="company" tabindex="-1" autocomplete="off"></div><button type="submit" class="btn">Keep me posted</button></div><p class="waitlist-note">We’ll only email you when your family can join. No ads, no selling your address. See our <a href="privacy.html">Privacy Policy</a>.</p><p class="waitlist-status" role="status" aria-live="polite"></p></form><div class="badges"><span class="badge-soon" role="img" aria-label="Coming soon to the App Store"><svg viewBox="0 0 24 24" aria-hidden="true"><path d="M16.4 12.6c0-2.6 2.1-3.8 2.2-3.9-1.2-1.8-3.1-2-3.7-2-1.6-.2-3.1.9-3.9.9-.8 0-2-.9-3.4-.9-1.7 0-3.3 1-4.2 2.6-1.8 3.1-.5 7.7 1.3 10.2.8 1.2 1.8 2.6 3.1 2.5 1.3-.1 1.7-.8 3.2-.8s1.9.8 3.2.8c1.3 0 2.2-1.2 3-2.5 1-1.4 1.3-2.7 1.4-2.8-.1 0-2.2-.8-2.2-4.1zM13.9 4.9c.7-.8 1.2-2 1-3.1-1 0-2.2.7-2.9 1.5-.6.7-1.2 1.9-1 3 1.1.1 2.2-.6 2.9-1.4z"/></svg><span><small>Coming soon to the</small>App Store</span></span><span class="badge-soon" role="img" aria-label="Coming soon to Android"><svg viewBox="0 0 24 24" aria-hidden="true"><path d="M6 18c0 .55.45 1 1 1h1v3.5a1.5 1.5 0 003 0V19h2v3.5a1.5 1.5 0 003 0V19h1c.55 0 1-.45 1-1V8H6v10zM3.5 8A1.5 1.5 0 002 9.5v7a1.5 1.5 0 003 0v-7A1.5 1.5 0 003.5 8zm17 0A1.5 1.5 0 0019 9.5v7a1.5 1.5 0 003 0v-7A1.5 1.5 0 0020.5 8zm-4.97-5.84l1.3-1.3a.5.5 0 10-.71-.71l-1.48 1.48A5.9 5.9 0 0012 1c-.96 0-1.86.23-2.66.63L7.85.15a.5.5 0 10-.71.71l1.31 1.31A5.97 5.97 0 006 7h12a5.97 5.97 0 00-2.47-4.84zM10 5H9V4h1v1zm5 0h-1V4h1v1z"/></svg><span><small>Coming soon to</small>Android</span></span></div></div></section></main><footer><div class="wrap"><div><a class="brand" href="index.html"><img src="assets/img/icon-180.png" alt="" width="34" height="34">StrongKin</a><p style="margin:.6em 0 0"><em style="color:#E8C878">A little closer, every day.</em></p><div class="social" aria-label="StrongKin on social media"><a href="https://www.instagram.com/strongkinapp/" target="_blank" rel="noopener" aria-label="StrongKin on Instagram"><svg viewBox="0 0 24 24" width="20" height="20" aria-hidden="true" fill="none" stroke="currentColor" stroke-width="1.8"><rect x="3" y="3" width="18" height="18" rx="5"/><circle cx="12" cy="12" r="4.2"/><circle cx="17.4" cy="6.6" r="1.1" fill="currentColor" stroke="none"/></svg></a><a href="https://www.tiktok.com/@strongkinapp" target="_blank" rel="noopener" aria-label="StrongKin on TikTok"><svg viewBox="0 0 24 24" width="20" height="20" aria-hidden="true" fill="currentColor"><path d="M16.6 3c.3 2.3 1.7 3.9 4 4.1v3.1c-1.5.1-2.8-.4-4-1.2v6.1c0 3.6-2.9 5.9-6.1 5.9A5.9 5.9 0 0 1 4.6 15c0-3.5 3-6.2 6.7-5.8v3.2c-1.8-.4-3.5.8-3.5 2.6 0 1.5 1.2 2.6 2.7 2.6 1.6 0 2.7-1.1 2.7-3V3h3.4z"/></svg></a><a href="https://www.youtube.com/@strongkinapp" target="_blank" rel="noopener" aria-label="StrongKin on YouTube"><svg viewBox="0 0 24 24" width="20" height="20" aria-hidden="true" fill="currentColor"><path d="M21.6 7.2a2.7 2.7 0 0 0-1.9-1.9C18 4.8 12 4.8 12 4.8s-6 0-7.7.5a2.7 2.7 0 0 0-1.9 1.9C2 8.9 2 12 2 12s0 3.1.4 4.8a2.7 2.7 0 0 0 1.9 1.9c1.7.5 7.7.5 7.7.5s6 0 7.7-.5a2.7 2.7 0 0 0 1.9-1.9c.4-1.7.4-4.8.4-4.8s0-3.1-.4-4.8zM10 15.1V8.9l5.2 3.1L10 15.1z"/></svg></a></div></div>
 <nav aria-label="Footer"><a href="index.html#features">Features</a><a href="privacy.html">Privacy</a><a href="terms.html">Terms</a><a href="support.html">Support</a></nav><p style="margin:0">&copy; 2026 StrongKin. All rights reserved.</p></div></footer><script src="assets/site.js" defer></script></body></html>
